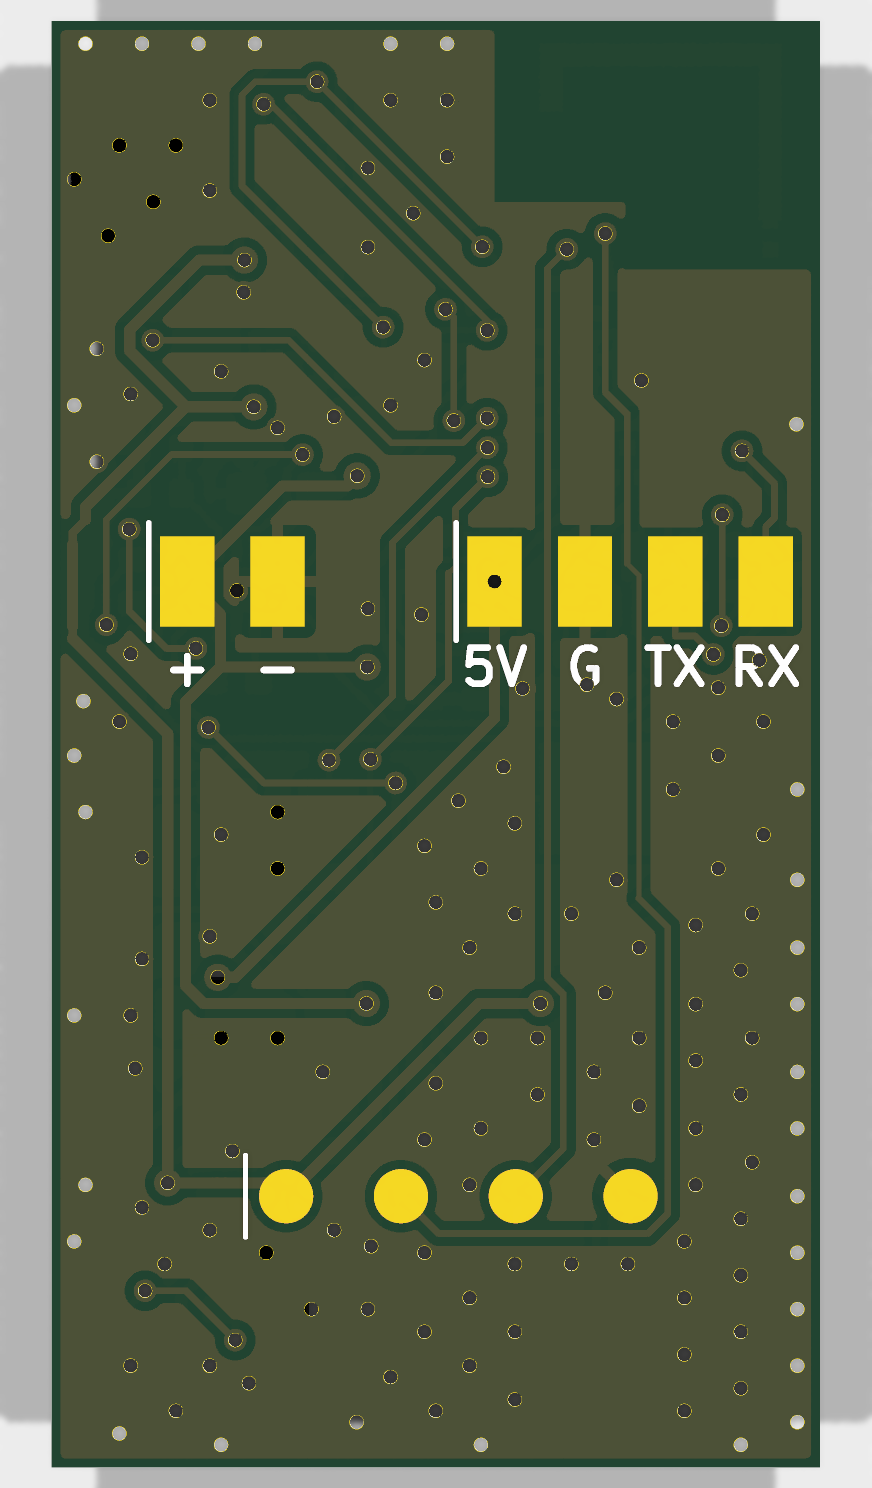
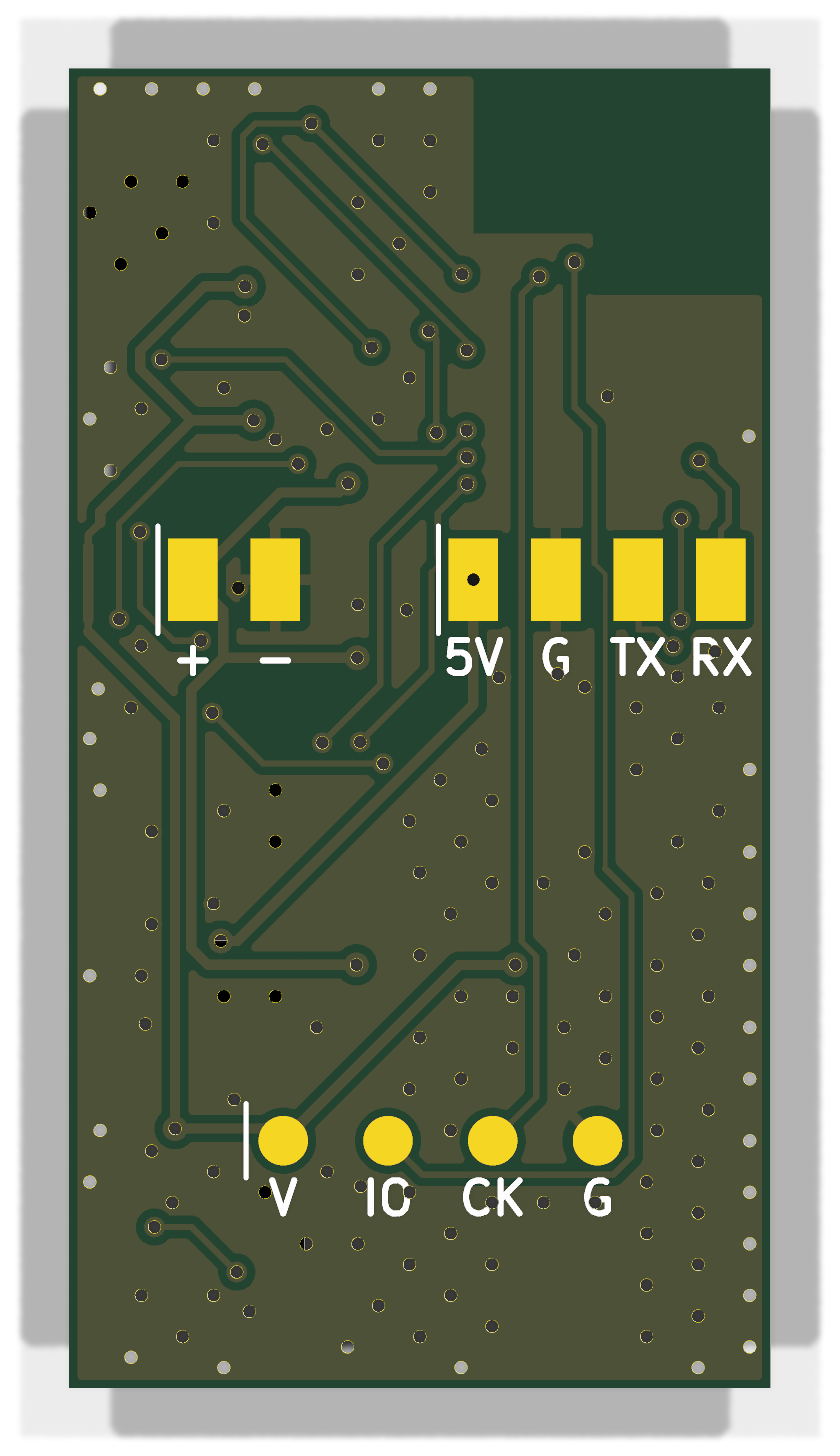
Review fixes: SWD pad labels, stale docs, bring-up measurement checklist
- Board: silkscreen labels V, IO, CK, G at the SWD pads J3 (gen_pcb.py --swd-labels), bottom render updated
- Docs: status, DRC minimums, board and panel sizes, extended parts list, removed JST links
- manufacturing.md: measurements to take on the first boards
- firmware/README.md: disable UART without 5 V, 1x buzzer mode while charging
- .gitignore: __pycache__

diff --git a/hardware/cricket-tag/gen_pcb.py b/hardware/cricket-tag/gen_pcb.py
@@ -263,6 +263,14 @@ def silk_text(board, text, x, y, layer, size=0.8, angle=0):
     board.Add(t)
 
 
+def swd_labels(board):
+    """Подписи площадок SWD J3 на нижней стороне: 1 VDD, 2 SWDIO, 3 SWCLK, 4 GND."""
+    j3 = board.FindFootprintByReference("J3")
+    for pad, txt in zip(sorted(j3.Pads(), key=lambda p: p.GetNumber()), ("V", "IO", "CK", "G")):
+        pos = pad.GetPosition()
+        silk_text(board, txt, pcbnew.ToMM(pos.x) - OX, pcbnew.ToMM(pos.y) - OY + 1.4, pcbnew.B_SilkS, 0.8)
+
+
 def main(netlist):
     comps, nets = read_netlist(netlist)
     parts, W, L, _battery = VARIANT()
@@ -318,6 +326,7 @@ def main(netlist):
         for pad, txt in zip(sorted(fp.Pads(), key=lambda p: p.GetNumber()), names):
             pos = pad.GetPosition()
             silk_text(board, txt, pcbnew.ToMM(pos.x) - OX, pcbnew.ToMM(pos.y) - OY + 1.9, pcbnew.B_SilkS, 0.8)
+    swd_labels(board)
 
     board.Save(PCB)
     print(f"{len(comps)} деталей, {len(nets)} цепей, плата {W} × {L} мм")
@@ -326,5 +335,9 @@ def main(netlist):
 if __name__ == "__main__":
     if sys.argv[1] == "--fields":
         sync_fields(sys.argv[2])
+    elif sys.argv[1] == "--swd-labels":   # только подписи J3 на готовой плате
+        _b = pcbnew.LoadBoard(PCB)
+        swd_labels(_b)
+        _b.Save(PCB)
     else:
         main(sys.argv[1])

diff --git a/hardware/cricket-tag/lib/gen_footprints.py b/hardware/cricket-tag/lib/gen_footprints.py
@@ -6,10 +6,10 @@
   внешний размер 2,3 мм, центральная площадка 1,0 × 1,0 мм.
 - SameSky_CPT-1117-83-SMT: Same Sky CPT-1117-83-SMT-TR, «Recommended PCB
   Layout»: две площадки 2,5 × 2,5 мм, между ними 10,5 мм; корпус 11 × 9 мм,
-  с лепестками 15 мм. Оставлен в библиотеке после D-25.
+  с лепестками 15 мм. Стоит на плате (D-27).
 - SameSky_CPT-9019A-SMT: Same Sky CPT-9019A-SMT-TR, «Recommended PCB Layout»:
   две площадки 1,3 × 3,4 мм, внешний размер 10,0 мм, между ними 7,4 мм;
-  корпус 9 × 9 × 1,9 мм. Выбран в D-25.
+  корпус 9 × 9 × 1,9 мм. Запасной (D-25 → D-27).
 - WirePads_1x04_P2.0mm, WirePads_1x02_P2.0mm: площадки 1,2 × 2,0 мм с шагом
   2,0 мм под ручную пайку проводов полётника и аккумулятора (D-26). Ставятся на
   нижнюю сторону, без пасты, в BOM и CPL не попадают.

diff --git a/hardware/cricket-tag/floorplan/floorplan.py b/hardware/cricket-tag/floorplan/floorplan.py
@@ -2,9 +2,9 @@
 
 Не разводка, а проверка площади: детали ставятся по курятникам, DRC ищет
 перекрытия (courtyards_overlap). Варианты и картинки — в README платы,
-раздел «Размер платы»; текущий — w16b (D-27).
+раздел «Размер платы»; текущий — w17d (D-28).
 
-python3 floorplan.py w16b /tmp/fp.kicad_pcb    # w14, w14s, w16b, w18s
+python3 floorplan.py w17d /tmp/fp.kicad_pcb    # w14, w14s, w16b, w17b, w17c, w17d, w18s
 cp cricket-tag.kicad_pro /tmp/fp.kicad_pro; cp fp-lib-table /tmp/
 kicad-cli pcb drc /tmp/fp.kicad_pcb -o /tmp/fp.rpt
 Координаты платы: X поперёк (0..W), Y вдоль (0..L), антенна у Y=0.

diff --git a/docs/manufacturing.md b/docs/manufacturing.md
@@ -16,7 +16,7 @@
 | Источник | Что | Особенности |
 |---|---|---|
 | Склад LCSC, basic | резисторы, конденсаторы, диоды, светодиод KT-0603W, 2N7002, кнопка TS-1088 | без доплаты за установку катушки |
-| Склад LCSC, extended | TP4054, TPS7A0233, PAM8904E, кварц, акселерометр | доплата за загрузку катушки на каждую позицию |
+| Склад LCSC, extended | TP4054, TPS7A0233, PAM8904E, кварц, акселерометр, резистор 1,5 МОм (D-23) | доплата за загрузку катушки на каждую позицию |
 | Global Sourcing | радиомодуль u-blox ANNA-B402-00B у Mouser (на складе JLCPCB его нет, предзаказ 90 дней) и излучатель CPT-1117-83-SMT-TR у Arrow (на LCSC 1 шт., D-27) | JLCPCB сам закупает. Срок 9–15 дней, цена немного выше, ручной сбор около 0,017 $ за вывод, не более 0,17 $ за деталь. Позиции DigiKey Marketplace, скорее всего, недоступны |
 | Consignment | детали, купленные и отправленные самостоятельно | **не используется**: владелец исключил этот путь как накладный |
 
@@ -43,6 +43,19 @@
 2. Пайка проводов аккумулятора к J2 (1 — плюс, 2 — минус), аккумулятор ложится снизу за площадками.
 3. Пайка четырёх проводов полётника к J1 (5 В, GND, TX, RX), закрепление проводов термоусадкой или клеем.
 4. Термоусадка на весь маячок.
+
+## Замеры на первых платах
+
+Расчёты ревью 2026-11-10 показали, что менять плату не нужно; замеры их подтверждают. Любое отклонение лечится прошивкой или заменой номинала на том же посадочном месте.
+
+| Что | Как | Ожидание | Если хуже |
+|---|---|---|---|
+| VOUT PAM8904E в режиме 3x | осциллограф на C13, аккумулятор 4,2 В, писк 4 кГц; затем то же при заряде от 5 В | 10–12,6 В, пульсации до ~0,85 В; не выше 13,5 В (предел драйвера). Размах на излучателе до 25 В — его предел | пульсации больше — C13, C14 на 2,2 мкФ 25 В; размах выше 25 В — в прошивке 1x при заряде и VBAT выше ~4,15 В |
+| Ток сна | микроамперметр в разрыв аккумулятора, 5 В нет, режимы STANDBY и SHIP | SHIP ~4–5 мкА, STANDBY ~30–40 мкА ([concept.md](concept.md#энергобюджет-оценка-уточнить-замером)) | сотни мкА — не выключен UART или NFC-выводы не переведены в GPIO; лишние ~2 мкА — делитель VBAT |
+| Кварц 32,768 кГц при обмене MSP | запуск LFXO и уход часов за 10 мин при идущем UART; площадки J1 лежат под Y1 | запуск меньше 1 с, уход в пределах ±20 ppm кварца | в прошивке источник LFCLK — внутренний RC |
+| Громкость | шумомер на 10 и 20 см, частоты 3–8 кГц, режимы 1x и 3x | ≥83 дБ на 10 см уже при 5 В размаха, в 3x заметно громче | подобрать частоту или качание; запасной излучатель CPT-9019A — другая плата |
+| Дальность | приложение, прямая видимость, 1M и Coded PHY | 150–250 м и 300–500 м (D-17) | проверить положение антенны относительно карбона и аккумулятора |
+| Заряд | ток в аккумулятор при 5 В, напряжение окончания | ~45 мА, 4,2 В ±1 % | R3 (PROG) |
 
 ## Выходные файлы
 

diff --git a/docs/setup.md b/docs/setup.md
@@ -25,6 +25,8 @@ $KICAD_CLI sch export bom     hardware/cricket-tag/cricket-tag.kicad_sch -o hard
   --group-by "Value,Footprint,LCSC Part" --ref-range-delimiter "" --exclude-dnp
 ```
 
+Разводка платы — Freerouting 2.5 (`freerouting-2.5.0.jar` из релизов github.com/freerouting/freerouting) под OpenJDK 27 из Homebrew (`brew install openjdk`, keg-only: вызывается как `/opt/homebrew/opt/openjdk/bin/java`, системная Java не меняется). Запуск — `hardware/cricket-tag/route.sh`, см. README платы.
+
 Плагины KiCad ставятся через Plugin and Content Manager в GUI: Interactive HTML BOM, Fabrication Toolkit (JLCPCB BOM/CPL), библиотека Espressif (для seeker, если понадобится ESP32).
 
 ## Прошивка (nRF Connect SDK, Zephyr)
@@ -67,7 +69,6 @@ nrfutil sdk-manager toolchain launch --ncs-version v3.4.2 -- west build -b nrf54
 
 - J-Link (включая встроенный в nRF52833-DK): `west flash` или `nrfutil device program --firmware build/zephyr/zephyr.hex`.
 - Любой CMSIS-DAP / J-Link через probe-rs: `probe-rs run --chip nRF52833_xxAA build/zephyr/zephyr.elf`.
-- Разводка платы — Freerouting 2.5 (`freerouting-2.5.0.jar` из релизов github.com/freerouting/freerouting) под OpenJDK 27 из Homebrew (`brew install openjdk`, keg-only: вызывается как `/opt/homebrew/opt/openjdk/bin/java`, системная Java не меняется). Запуск — `hardware/cricket-tag/route.sh`, см. README платы.
 - У cricket-tag площадки SWD J3 снизу под аккумулятором: 1 VDD, 2 SWDIO, 3 SWCLK, 4 GND, шаг 2,54 мм, без отверстий. Прошивать до пайки аккумулятора, подпружиненными контактами или временными проводами (D-26).
 
 ## Что установлено (проверено 2026-11-09)

diff --git a/firmware/README.md b/firmware/README.md
@@ -12,7 +12,8 @@
 - Признаки падения: MSP_STATUS (armed) по UART, удар по LIS2DH12, нарастание тревоги как запасной вариант.
 - LIS2DH12 на I2C по адресу 0x19 (SA0 на VDD_IO), прерывание по удару на INT1 (ACC_INT1).
 - Пищалка: ШИМ на BUZ_DIN, режим PAM8904E выводом BUZ_EN1 (0 — 1x, 1 — 3x; EN2 на VBAT, D-28). У CPT-1117-83 (D-27) громкость высокая широкой полосой 3–8 кГц: частоту или качание частоты подобрать замером.
-- Без 5 В от полётника вывод UART_TX перевести во вход, чтобы не питать полётник через его защитные диоды.
+- Без 5 В от полётника вывод UART_TX перевести во вход, чтобы не питать полётник через его защитные диоды, и выключить UART целиком: включённый приёмник UARTE держит HFCLK (сотни мкА), а UART_RX через 1 кОм висит на обесточенном полётнике.
+- Режим 3x PAM8904E (BUZ_EN1 = 1) на полном аккумуляторе даёт размах до 25 В — ровно предел CPT-1117-83. Пока идёт заряд (VBAT до 4,24 В), использовать 1x или не пищать.
 - Радио выключено, пока дрон armed: не мешать ELRS 2,4 ГГц.
 - Чтение GPS с полётника по MSP, последние координаты в рекламе Cricket.
 - Кнопка: выключение тревоги, привязка, режим хранения, загрузчик.

diff --git a/docs/module-options.md b/docs/module-options.md
@@ -61,7 +61,7 @@
 
 ## ANNA-B402 и Ebyte E73-2G4M08S1F: цена, габариты, масса
 
-Расчёт 2026-11-09. Платы — по калькулятору JLCPCB, сборка — по тарифам JLCPCB, компоненты — LCSC и Mouser. Масса Ebyte — по руководству производителя (0,8 г ± 0,1 г), масса ANNA-B402 в datasheet не указана, оценка ~0,1 г.
+Расчёт 2026-11-09, до расстановки и разводки: плата ANNA-B402 тогда оценивалась в 22 × 13 мм. После D-26…D-28 она 17 × 32 мм и ~0,65 г с излучателем CPT-1117-83; плата с Ebyte при том же излучателе выросла бы так же, поэтому разница в массе (~0,9 г, в основном сам модуль) остаётся. Габариты и массы в таблице ниже не пересчитаны. Платы — по калькулятору JLCPCB, сборка — по тарифам JLCPCB, компоненты — LCSC и Mouser. Масса Ebyte — по руководству производителя (0,8 г ± 0,1 г), масса ANNA-B402 в datasheet не указана, оценка ~0,1 г.
 
 ### Габариты и масса
 

diff --git a/README.md b/README.md
@@ -31,7 +31,7 @@
 
 | Папка | Назначение | Статус |
 |---|---|---|
-| `hardware/cricket-tag/` | KiCad-проект маячка | библиотека с ANNA-B402 готова, схема не начата |
+| `hardware/cricket-tag/` | KiCad-проект маячка | схема ревизии A (ERC 0) и разведённая плата 17 × 32 мм (DRC 0) готовы; выходных файлов для завода ещё нет |
 | `hardware/cricket-seeker/` | приёмник для поискового дрона | не начат |
 | `firmware/` | прошивка, Zephyr / nRF Connect SDK | не начата |
 | `app/` | Android-приложение | не начато |
@@ -45,4 +45,4 @@
 - себестоимость ~17 $ за плату при 24 шт., ~12 $ при 120 шт.;
 - первый заказ — тестовая партия 8 плат примерно за 222 $.
 
-Следующий шаг: схема cricket-tag. Лицензия не выбрана.
+Схема и плата 17 × 32 мм готовы 2026-11-10 (D-28). Следующий шаг: проверка разводки глазами в KiCad, выходные файлы для JLCPCB, затем прошивка. Лицензия не выбрана.

diff --git a/docs/cost.md b/docs/cost.md
@@ -7,7 +7,7 @@
 | Параметр | Значение |
 |---|---|
 | Плата | 17 × 32 мм (D-28), 2 слоя, 0,6 мм, ENIG. Цена плат посчитана для 22 × 13 мм; при той же панели почти не изменится, уточнить по gerber |
-| Панель | 4 × 3 = 12 плат, 98 × 49 мм с технологическими полями |
+| Панель | 4 × 3 = 12 плат. Цена посчитана для панели 98 × 49 мм под плату 22 × 13 мм; с платой 17 × 32 мм панель около 78 × 106 мм с технологическими полями |
 | Тип сборки | **Standard PCBA**: модуль из Global Sourcing и панель с V-cut не допускаются в дешёвом Economic |
 | Уникальных позиций в BOM | 22: модуль и излучатель из Global Sourcing, 6 Extended, 14 Basic (резистор 1,5 МОм добавлен по D-23, разъёмы убраны по D-26) |
 | Паяных соединений на плату | ~166 |
